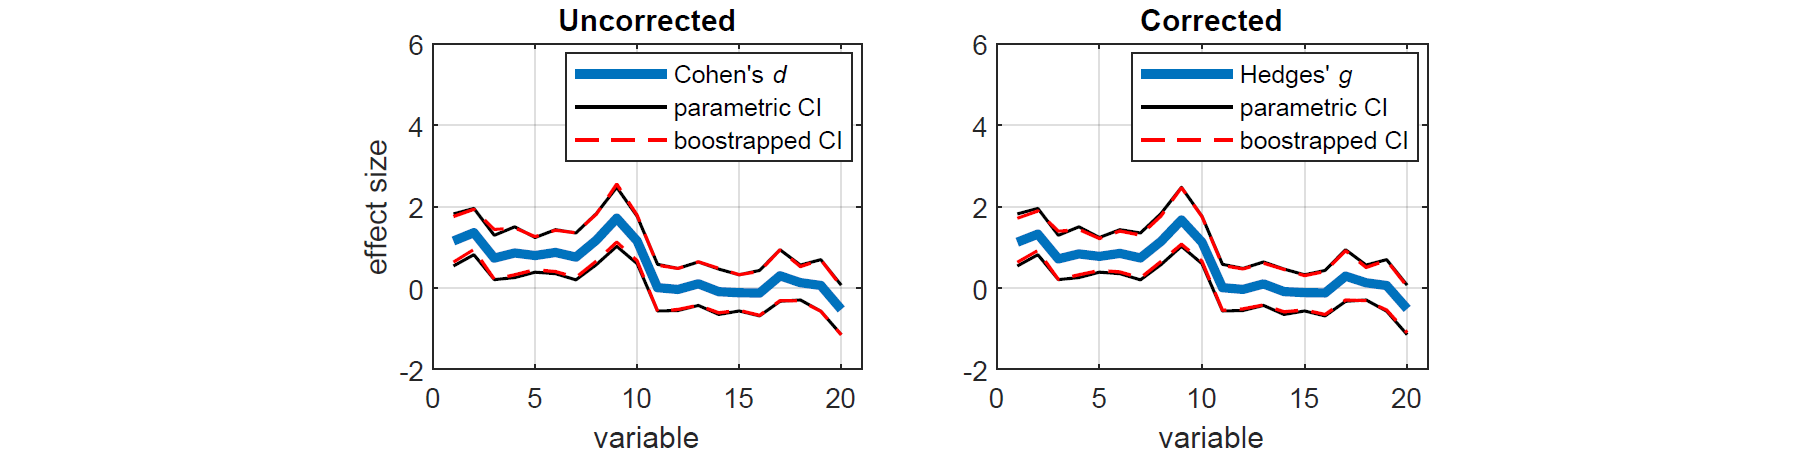
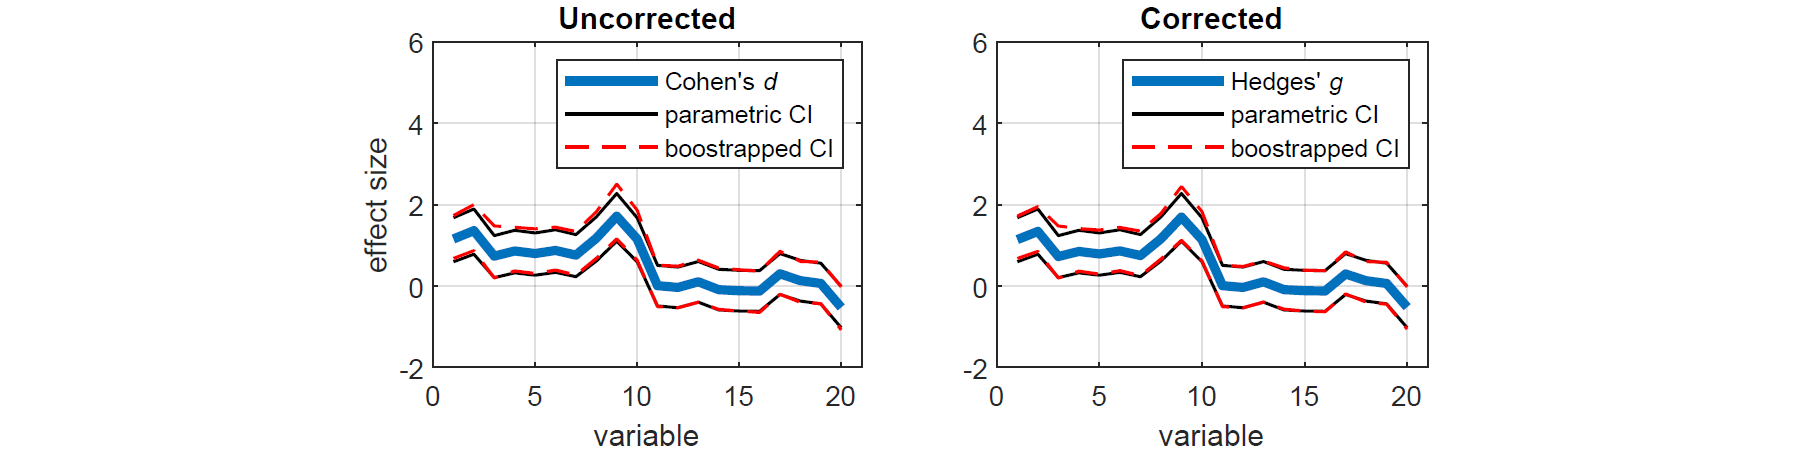
Updated README examples & Figs

diff --git a/README.md b/README.md
@@ -37,14 +37,16 @@ The max statistic correction method (Blair *et al.*, 1994) works by permuting th
 * `permuttest()` - one-sample or paired-sample permutation test with tmax correction
 * `permuttest2()` - unpaired two-sample permutation test with tmax correction
 * `permuvartest2()` - permutation-based *F*-test with max statistic correction
-* `permucorr()` - permutation-based correlation test with max statistic correction
+* `permucorr()` - permutation-based correlation coefficient with max statistic correction
 * `booteffectsize()` - bias-corrected effect size measure with bootstrapped confidence intervals
 
 ## Examples
 
-### Permutation tests for dependent samples
+### Permutation tests for independent samples
 
-Here, we generate random multivariate data for 2 "dependent" samples X and Y. Each sample has 20 variables, each with a mean value of 0, except for the first 10 variables of Y which have a mean value of -1. Each variable has 30 observations.
+The following example demonstrates how to test whether two independent samples come from distributions with equal means in PERMUTOOLS, and compares the test results to those of the equivalent parametric tests in MATLAB.
+
+First, we generate random multivariate data for 2 "independent" samples X and Y. Each sample has 20 variables, each with a mean value of approximately 0, except for the first 10 variables of Y which have a mean value of approximately -1. Each variable has 30 observations.
 
 ```matlab
 % Generate random data
@@ -56,47 +58,48 @@ y = randn(30,20);
 y(:,1:10) = y(:,1:10)-1;
 ```
 
-We compare the means of each corresponding variable in X and Y via two-tailed paired tests, first using the standard parametric approach (i.e. *t*-tests), and then using the equivalent non-parametric approach (i.e. permutation tests). The permutations test are conducted with and without correction for multiple comparisons.
+Lets assume that we do not know whether the data in X and Y come from distributions with equal variances and thus whether we should use a two-sample Student's *t*-test or a Welch's *t*-test. To establish this, compare the variances of each corresponding variable in X and Y using two-tailed tests based on the *F*-statistic, first using the standard parametric approach (i.e. *F*-tests), and then using the equivalent non-parametric approach (i.e. permutation tests). For demonstration purposes, the permutation tests are conducted both with and without correction for multiple comparisons.
 
 ```matlab
-% Perform t-test
-[h,p,ci] = ttest(x,y);
+% Perform two-sample F-tests
+[h,p,ci,stats] = vartest2(x,y);
 
-% Perform uncorrected permutation test
-[hu,pu,ciu] = permuttest(x,y,'correct',false);
+% Perform uncorrected two-sample permutation F-tests
+[hu,pu,ciu,statsu] = permuvartest2(x,y,'correct',false);
 
-% Perform permutation test with tmax correction
-[hc,pc,cic] = permuttest(x,y,'correct',true);
+% Perform corrected two-sample permutation F-tests
+[hc,pc,cic,statsc] = permuvartest2(x,y,'correct',true);
 ```
 
-Here, we plot the mean difference with the parametric and permutation CIs for each test. Variables that are found to be significantly different at the 5% alpha level are indicated by black circles (*t*-tests) and red x's (permutation tests).
+To demonstrate the benefit of permutation tests with max statistic correction over traditional parametric tests, we plot the *F*-statistic along with the parametric and permutation CIs for each test. Variables that are found to be significantly different (*p* < 0.05) are indicated by black circles (*F*-tests) and red x's (permutation tests). We see that applying max statistic correction widens the CIs of the test statistic such that none of the spuriously significant results survive.
 
 ```matlab
-% Compute the mean difference
-diffxy = mean(x-y);
-xaxis = 1:size(diffxy,2);
+% Get F-statistic
+f = statsc.fstat;
+xaxis = 1:size(f,2);
 
 % Plot parametric & uncorrected permutation CIs
+figure, set(gcf,'color','w')
 subplot(2,2,1), hold on
-plot(xaxis,diffxy,'LineWidth',3)
-plot(xaxis,ci,'k',xaxis,ciu,'--r')
-plot(xaxis(logical(h)),diffxy(logical(h)),'ok','LineWidth',2)
-plot(xaxis(logical(hu)),diffxy(logical(hu)),'xr','LineWidth',2)
-ylim([-3,3]), xlim([0,21])
-title('Uncorrected'), ylabel('X−Y')
-legend('mean(X−Y)','parametric CIs','','permutation CIs','Location','southwest')
+plot(xaxis,f,'LineWidth',3)
+plot(xaxis,ci,'k',xaxis,ciu,'--r','LineWidth',1)
+plot(xaxis(logical(h)),f(logical(h)),'ok','LineWidth',2)
+plot(xaxis(logical(hu)),f(logical(hu)),'xr','LineWidth',2)
+ylim([0,6]), xlim([0,21]), box on, grid on
+title('Uncorrected'), ylabel('{\itF}-value')
+legend('{\itF}-statistic','parametric CI','','permutation CI','Location','northeast')
 
 % Plot parametric & corrected permutation CIs
 subplot(2,2,2), hold on
-plot(xaxis,diffxy,'LineWidth',3)
-plot(xaxis,ci,'k',xaxis,cic,'--r')
-plot(xaxis(logical(h)),diffxy(logical(h)),'ok','LineWidth',2)
-plot(xaxis(logical(hc)),diffxy(logical(hc)),'xr','LineWidth',2)
-ylim([-3,3]), xlim([0,21])
+plot(xaxis,f,'LineWidth',3)
+plot(xaxis,ci,'k',xaxis,cic,'--r','LineWidth',1)
+plot(xaxis(logical(h)),f(logical(h)),'ok','LineWidth',2)
+plot(xaxis(logical(hc)),f(logical(hc)),'xr','LineWidth',2)
+ylim([0,6]), xlim([0,21]), box on, grid on
 title('Corrected')
 ```
 
-Next, we plot the parametric and permutation *p*-values for each test with significant results indicated as before. We can see that not all of the variables found to be significantly different in the uncorrected tests survive the max statistic criterion.
+To demonstrate the effect of max statistic correction on the resulting *p*-values, we plot them for both the parametric and permutation tests, with significant results indicated as before.
 
 ```matlab
 % Plot parametric & uncorrected permutation p-values
@@ -104,42 +107,102 @@ subplot(2,2,3), hold on
 plot(xaxis,p,'k',xaxis,pu,'--r','LineWidth',2)
 plot(xaxis(logical(h)),p(logical(h)),'ok','LineWidth',2)
 plot(xaxis(logical(hu)),pu(logical(hu)),'xr','LineWidth',2)
-ylim([0,1]), xlim([0,21])
+ylim([0,1]), xlim([0,21]), box on, grid on
 xlabel('variable'), ylabel('probability')
-legend('parametric {\itp}-value','permutation {\itp}-value','Location','southwest')
+legend('parametric {\itp}','permutation {\itp}','Location','northeast')
 
 % Plot parametric & corrected permutation p-values
 subplot(2,2,4), hold on
 plot(xaxis,p,'k',xaxis,pc,'--r','LineWidth',2)
 plot(xaxis(logical(h)),p(logical(h)),'ok','LineWidth',2)
 plot(xaxis(logical(hu)),pc(logical(hu)),'xr','LineWidth',2)
-ylim([0,1]), xlim([0,21])
+ylim([0,1]), xlim([0,21]), box on, grid on
 xlabel('variable')
 ```
 
-# <img src="docs/fig_paired_test.png">
+# <img src="docs/fig_ftest.png">
 
-### Effect size measures for dependent samples
+Now that we have established that the data in X and Y come from distributions with equal variances, we can proceed to test whether they have equal means using an estimate of the *t*-statistic that uses their pooled standard deviation. We compare the means of each corresponding variable in X and Y using two-tailed (unpaired) tests, first using the standard parametric approach (i.e. *t*-tests), and then using the equivalent non-parametric approach (i.e. permutation tests), with and without correction.
 
-To measure the effect size of the results, we can compute a measure of Cohen's *d* that is bias-corrected for sample size (also known as Hedges' *g*), as well as the corresponding bias-corrected CIs, estimated using an efficient bootrapping procedure. As before, we first compute the exact confidence intervals using the standard parametric approach (Student's *t*-distribution), as well as the equivalent non-parametric approach (bootrapping). The bootrapped effect sizes and CIs are computed with and without bias-correction.
+```matlab
+% Perform two-sample t-tests
+[h,p,ci,stats] = ttest2(x,y);
+
+% Perform uncorrected two-sample permutation tests
+[hu,pu,ciu,statsu] = permuttest2(x,y,'correct',false);
+
+% Perform corrected two-sample permutation tests
+[hc,pc,cic,statsc] = permuttest2(x,y,'correct',true);
+```
+
+Here, we plot the mean difference along with the parametric and permutation CIs for each test (top panels), as well as the parametric and permutation *p*-values (bottom panels). Once again, we see that spuriously significant results in the uncorrected tests did not survive the max statistic criterion.
+
+```matlab
+% Compute the mean difference
+diffxy = mean(x)-mean(y);
+xaxis = 1:size(diffxy,2);
+
+% Plot parametric & uncorrected permutation CIs
+figure, set(gcf,'color','w')
+subplot(2,2,1), hold on
+plot(xaxis,diffxy,'LineWidth',3)
+plot(xaxis,ci,'k',xaxis,ciu,'--r','LineWidth',1)
+plot(xaxis(logical(h)),diffxy(logical(h)),'ok','LineWidth',2)
+plot(xaxis(logical(hu)),diffxy(logical(hu)),'xr','LineWidth',2)
+ylim([-3,3]), xlim([0,21]), box on, grid on
+title('Uncorrected'), ylabel('X−Y')
+legend('mean(X−Y)','parametric CI','','permutation CI','Location','southwest')
+
+% Plot parametric & corrected permutation CIs
+subplot(2,2,2), hold on
+plot(xaxis,diffxy,'LineWidth',3)
+plot(xaxis,ci,'k',xaxis,cic,'--r','LineWidth',1)
+plot(xaxis(logical(h)),diffxy(logical(h)),'ok','LineWidth',2)
+plot(xaxis(logical(hc)),diffxy(logical(hc)),'xr','LineWidth',2)
+ylim([-3,3]), xlim([0,21]), box on, grid on
+title('Corrected')
+
+% Plot parametric & uncorrected permutation p-values
+subplot(2,2,3), hold on
+plot(xaxis,p,'k',xaxis,pu,'--r','LineWidth',2)
+plot(xaxis(logical(h)),p(logical(h)),'ok','LineWidth',2)
+plot(xaxis(logical(hu)),pu(logical(hu)),'xr','LineWidth',2)
+ylim([0,1]), xlim([0,21]), box on, grid on
+xlabel('variable'), ylabel('probability')
+legend('parametric {\itp}','permutation {\itp}','Location','southwest')
+
+% Plot parametric & corrected permutation p-values
+subplot(2,2,4), hold on
+plot(xaxis,p,'k',xaxis,pc,'--r','LineWidth',2)
+plot(xaxis(logical(h)),p(logical(h)),'ok','LineWidth',2)
+plot(xaxis(logical(hc)),pc(logical(hc)),'xr','LineWidth',2)
+ylim([0,1]), xlim([0,21]), box on, grid on
+xlabel('variable')
+```
+
+# <img src="docs/fig_ttest.png">
+
+### Effect size measures for independent samples
+
+To measure the effect size of the above results, we can compute a standardised measure of mean difference known as Cohen's *d* that is bias-corrected for sample size (also known as Hedges' *g*). We can also calculate the corresponding bias-corrected CIs, estimated using an efficient bootstrapping  procedure. As before, we first compute the exact confidence intervals using the standard parametric approach (Student's *t*-distribution), as well as the equivalent non-parametric approach (bootstrapping). For demonstration purposes, the bootstrapped  effect sizes and CIs are computed with and without bias-correction for sample size.
 
 ```matlab
 % Compute effect size & parametric CIs
 d = zeros(1,20); ci = zeros(2,20);
 for j = 1:20
-    stats1 = meanEffectSize(x(:,j),y(:,j),'Effect','cohen','Paired',1);
+    stats1 = meanEffectSize(x(:,j),y(:,j),'Effect','cohen','Paired',0);
     d(j) = stats1.Effect;
     ci(:,j) = stats1.ConfidenceIntervals';
 end
 
 % Compute uncorrected effect size & bootstrapped CIs
-[du,ciu] = booteffectsize(x,y,'correct',false);
+[du,ciu] = booteffectsize(x,y,'effect','cohen','paired',0,'correct',false);
 
 % Compute corrected effect size & bootstrapped CIs
-[dc,cic] = booteffectsize(x,y,'correct',true);
+[dc,cic] = booteffectsize(x,y,'effect','cohen','paired',0,'correct',true);
 ```
 
-Here, we plot the resulting effect sizes measures along with their CIs.
+Here, we plot the resulting effect sizes measures along with their CIs. We see that bias-correcting the effect size and CIs according to sample size slightly reduces the overal measures, resulting in a more conservative estimate.
 
 ```matlab
 % Plot parametric & uncorrected bootstrapped measures
@@ -162,9 +225,12 @@ legend('Hedges'' {\itg}','parametric CI','','boostrapped CI')
 
 # <img src="docs/fig_effect_size.png">
 
-From the above analysis, we can report the frequentist statistics (adjusted for mutiple tests and sample size) for any of the pairwise comparison between X and Y. For example, the mean of the first variable was found to be significantly greater in X than in Y (*t*(29) = 4.19, *p* = 0.0052, Hedge's *g* = 1.13, 95CI [0.63, 1.72]).
+From the above analysis, we can report the frequentist statistics (adjusted for multiple  tests and sample size) for any of the pairwise comparisons  between X and Y. For example, the mean of the first variable was found to be significantly greater in X than in Y (*t*(58) = 4.49, *p* = 0.0008, Hedge's *g* = 1.14, 95CI [0.68, 1.72]).
 
 ## Citation
+
+If you use this code or results in your paper, please cite our work as:
+
 ```
 @article{crosse2018permutools,
   title={PERMUTOOLS: A MATLAB Package for Multivariate Permutation Testing},
